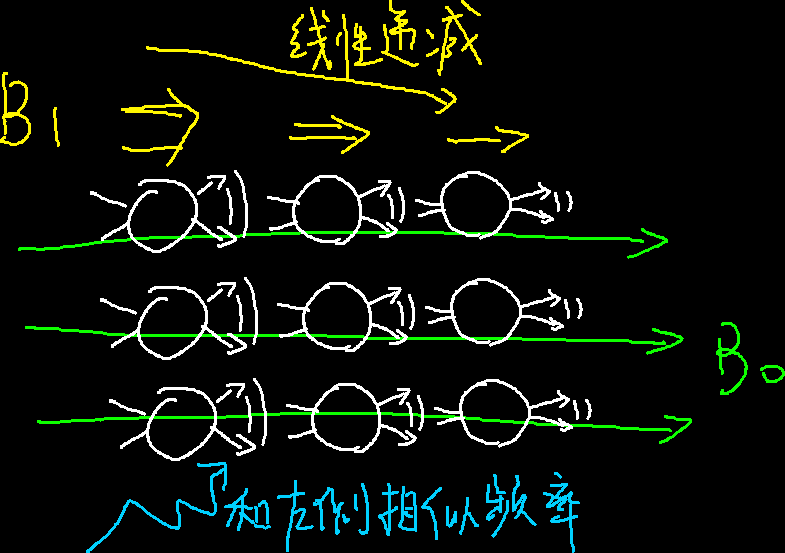
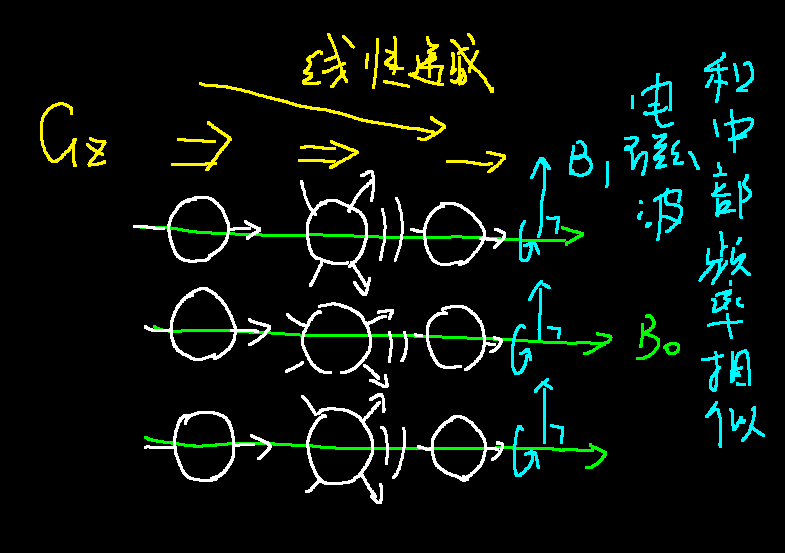
-

diff --git a/docs/natural_science/ns_3.md b/docs/natural_science/ns_3.md
@@ -10,7 +10,7 @@
 
 ![img.png](../resources/ns_3/img.png)
 
-&emsp;&emsp;如果两个音叉的固有频率相同，我们敲击一个音叉，第二个音叉也会跟着震动，即便握住第一个音叉，第二个音叉也会接着震动，我们也能听到第二个音叉发出的声音。  // 共振不是一蹴而就的，而是缓慢进行的。实际上是"荡秋千"的过程->T-1
+&emsp;&emsp;如果两个音叉的固有频率相同，我们敲击一个音叉，第二个音叉也会跟着震动，并且震动的幅度不断缓慢增加，即便握住第一个音叉，第二个音叉虽然不会继续增加，但还会接着震动，我们还是能听到第二个音叉发出的声音。
 
 &emsp;&emsp;根据这个原理，我们可以设计一个实验来检测未知音叉的固有频率。假设我们有三个未知固有频率的音叉。
 
@@ -32,75 +32,62 @@
 
 ## 三、理论模型
 
-// B0场改为均匀静态磁场1.5T/3T 超导线圈 均匀，强大 B1动态磁场 激励磁场 梯度磁场 G 缓慢变化 磁化矢量
-
-// 氢原子本身没有T1T2 G场和B0的方向相同
-
-// 梯度处处相等，梯度矢量可以叠加
-
 &emsp;&emsp;在说一台常见的核磁共振仪的具体构成之前，我们先来简单说一说核磁共振原理的概要。我们继续沿用在（一）中使用的比喻。
 
-&emsp;&emsp;在让音叉共振之前，我们至少得有音叉，在电磁波面前，我们的身体并不\*表现地像个音叉，就像一根没有绷紧的琴弦不会\*发生共振一样，那么如何制造"音叉"呢？我们需要一个非常强大（理想情况下匀强的）的磁场，我们称为均匀静态磁场B0。这种情况下，就像铁磁性的分子一样，我们身体内的一些极性分子也会发生极化，形成像小磁针一样的结构，顺着磁场排列（这和铁磁性物质的磁化相似，并不是每个原子都顺着磁场排列，而是一批分子在一起，呈现出了一定的极性）。而在医疗领域，身体内主要出现这种性质的原子是氢原子。
+&emsp;&emsp;在让音叉共振之前，我们至少得有音叉，在电磁波面前，我们的身体并不\*表现地像个音叉，就像一根没有绷紧的琴弦不会\*发生共振一样，那么如何制造"音叉"呢？我们需要一个非常强大且均匀的磁场，我们称为均匀静态磁场B0。这种情况下，就像铁磁性的分子一样，我们身体内的一些极性分子也会发生极化，很多的这样的分子在一起，在统计学上形成像小磁针一样的结构，顺着磁场排列（这和铁磁性物质的磁化相似，并不是每个原子都顺着磁场排列，而是一批分子在一起，呈现出了一定的极性），这将是我们主要研究的东西。而在医疗领域，身体内主要出现这种性质的原子是氢原子。
 
-&emsp;&emsp;让我们假设我们有一只方形的生物，身体只有27块组织，除了中心的一块是骨骼（氢含量较低）外，其他都是水分充足的组织<del>AMOUNGUS</del>。这些组织（用一个小磁铁表示）在磁场下出现规律的排列。
+&emsp;&emsp;让我们假设我们有一只方形的生物，身体只有27块组织，除了中心的一块是骨骼（氢含量较低）外，其他都是水分充足的组织<del>AMOUNGUS</del>。这些组织（用一个小磁针表示）在磁场下出现规律的排列。
 
 ![img.png](../resources/ns_3/img_4.png)
 
-&emsp;&emsp;接着，我们需要一个"声源"来让这些氢原子"震动"起来，对这，我们需要一个可控频率的电磁波源。不过，我们都知道了，能够"震动"的是氢原子，所以震动的频率我们其实是知道的，我们想要知道的，其实是氢原子的密度（因为这对不同组织数值不同）所以我们实际测量的是"震动"的"响度"。
+&emsp;&emsp;接着，我们需要一个"声源"来让这些氢原子"震动"起来，对这，我们需要一个可控频率的电磁波源，产生这个电磁波的磁场，我们称为动态磁场或激励磁场B1。不过，我们都知道了，能够"震动"的是氢原子，所以震动的频率我们其实是知道的，我们想要知道的，很重要的一部分是氢原子的密度（因为这对不同组织数值不同）所以我们实际测量的是"震动"的"响度"，在实际使用中，我们其实还需要测量这些小磁针转动的相位，但这我们之后再说。
 
-&emsp;&emsp;在音叉的实验中，我们可以通过把耳朵贴近某一个特定的音叉来增强某一个特定音叉发出的声音来得到每一个音叉的数据，但在核磁共振中，这并不太现实（音叉太多、太小），我们只能听到所有氢原子混在一起的"声音"。所以我们需要其他的方法来增强某些氢原子的"震动"，对这，我们就需要一个新的磁场称为动态磁场B1，这个磁场的磁场强度，顺着某一条直线线性减少（也就是每一米减少固定的数值）形成一个梯度。
-
-// B1改为$G_Z/G_{SELECT}$
+&emsp;&emsp;在音叉的实验中，我们可以通过把耳朵贴近某一个特定的音叉来增强某一个特定音叉发出的声音来得到每一个音叉的数据，但在核磁共振中，这并不太现实（音叉太多、太小），我们只能听到所有小磁针混在一起的"声音"。所以我们需要其他的方法来过滤处某些特定的小磁针的"震动"信息，对这，我们就需要一个新的磁场称为梯度磁场G，这个磁场的磁场强度，顺着某一条直线线性减少（也就是每一米减少固定的数值）形成一个梯度，一般来说会使用下标（xyz）来标记顺着的是哪一个方向。
 
 ![img_5.png](../resources/ns_3/img_5.png)
 
-&emsp;&emsp;这样的一个磁场有什么用呢？这要提到氢原子"震动"的另一个性质，它的频率和它被激发时，所处的场强大小有关。由于磁场可以直接叠加，顺着这个梯度磁场，氢原子"震动"的频率发生有规律的变化，还记得音叉共振的时候，当声音和音叉的固有频率和声音的频率相同时，音叉共振特别明显么？这对氢原子也生效，当激发氢原子的电磁波的频率和前面说到的这个频率相近的时候，"震动"也会特别明显，这样，通过控制梯度磁场的强度以及激发电磁波的频率，我们可以增强某个和梯度磁场中的那条直线垂直的一个面内的氢原子的信号。
+&emsp;&emsp;这样的一个磁场有什么用呢？这要提到小磁针"震动"的另一个性质：它的频率和它被激发时，所处的场强大小有关。由于磁场可以直接叠加，顺着这个梯度磁场，氢原子"震动"的频率发生有规律的变化。还记得音叉共振的时候，当声音和音叉的固有频率和声音的频率相同时，音叉共振特别明显么？这对氢原子也生效，当激发氢原子的电磁波的频率和前面说到的这个频率相近的时候，"震动"也会特别明显，这样，通过控制梯度磁场的强度以及激发电磁波的频率，我们可以选定某个和梯度磁场中的那条直线垂直的一个面内的小磁针进行"震动"。
 
-// 不要讲原子 翻倒 ms等级 B0方向不足以产生新的 T1 B0 方向长出一个新的矢量反指数，可以张到一半就给它翻起来， T2 旋转矢量消散指数形式， 一般更快
+&emsp;&emsp;这样，我们可以通过在激发时使用合适方向的层选梯度磁场，使得只有其中共振频率符合的一层小磁针会被激发，这样的选择是任意的。当然，为了简单起见，我们可以认为只有被这样选定的一层的小磁针发生了偏转。
 
-&emsp;&emsp;这样，我们可以通过在激发时使用合适方向的层选制梯度磁场，使得只有其中共振频率符合的一层小磁针会被激发，这样就可以控制地激发任意的一个平面内的小磁针。当然，为了简单起见，我们可以认为只有被这样选定的一层的小磁针发生了偏转。<del>这样的数据已经足以解算任意一块组织内的氢原子密度了。这个算法我不会，所以我不说了。这和CT中使用的方法是类似（但是CT获取的是一条直线上的数据和，这里是一个平面上的）的。不过这个方法不那么好用，核磁共振中还可以使用一种更加方便的方法，我们后面再说。</del>
+&emsp;&emsp;实际上来说，小磁针（我们可以使用一个称为磁化矢量的矢量来描述小磁针的方向）并不是真的像音叉一样去震动，而是收到了激励磁场的影响后，一边绕着静态磁场的方向旋转，一遍偏离静态磁场。
 
+![img_3.png](../resources/ns_3/img_13.png)
 
 ## 四、四个线圈
 
-&emsp;&emsp;在一台磁共振仪中，我们可以认为有4个线圈，第一个线圈，提供了永磁场，也就是我们前面说的制造"音叉"的B0磁场。在医院里看到的那些大型"纸卷"，所谓的1.5T、3T说的就是这个磁场的强度。这个磁场强度非常之强，我记得之前一个磁共振仪的安全教育视频中，一个人在这个磁场下被胸前挂着的剪刀直接吸着拉到了机器上（我找不到视频了，待验证，但是这个磁场确实很强）。一般医院中使用的机器，这个磁场都是通过超导线圈内的电流建立的的，只要维持住超导状态，这个磁场就会一直（衰减很少）存在。
+&emsp;&emsp;在一台磁共振仪中，我们可以认为有4个线圈，第一个线圈，提供了静态磁场，也就是我们前面说的制造"音叉"的B0磁场。在医院里看到的那些大型"纸卷"，所谓的1.5T、3T说的就是这个磁场的强度。这个磁场强度非常之强，我记得之前一个磁共振仪的安全教育视频中，一个人在这个磁场下被胸前挂着的剪刀直接吸着拉到了机器上。一般医院中使用的机器，这个磁场都是通过超导线圈内的电流建立的的，只要维持住超导状态，这个磁场就会一直（衰减很少）存在。
 
 &emsp;&emsp;通过精密的调试，大纸卷的中心洞里面的强磁场可以认为是匀强的。
 
 !["大纸卷"](../resources/ns_3/img_3.png)
 
-// v 改！
+&emsp;&emsp;当然，这个"纸卷"里不止有这个线圈，制造梯度磁场的梯度线圈和发出激发用的电磁波的射频线圈也在里面。虽说在梯度线圈建立的磁场中，磁场的方向都得和静态磁场相同，因此其造成的磁场强度可以看作一个标量，但是其梯度（可以理解为某个点上周围量的变化的最大的方向和变化的量多少）是一个矢量，而且处处相同，通过几组梯度线圈造成的梯度矢量的叠加（比如x、y、z三个方向的三组），可以得到任意方向的梯度。
 
-&emsp;&emsp;当然，这个"纸卷"里不止有这个线圈，制造梯度磁场的梯度线圈和发出激发用的电磁波的射频线圈也在里面。由于磁场强度是一个矢量，我们可以通过多个梯度线圈的叠加来实现任意方向的梯度磁场。
-
-// 旋转的"小磁针"
-
-&emsp;&emsp;最后，氢原子"震动"（我还是用自旋这个术语把之后再解释）产生的信号强度十分微弱，我们需要一个优秀的耳朵来听这个声音，因此还需要一个接受线圈来捕捉信号，这个线圈一般会根据需要扫描的部位进行放置，比如头线圈，身体线圈，肢体线圈等等。
+&emsp;&emsp;最后，小磁针旋转产生的信号强度十分微弱，我们需要一个优秀的"耳朵"来听这个声音，因此还需要一个接受线圈来捕捉信号，这个线圈一般会根据需要扫描的部位进行放置，比如头线圈，身体线圈，肢体线圈等等。
 
 &emsp;&emsp;这其中，永磁场在正常情况下是不能控制的，但是梯度线圈和射频线圈都是需要精密的信号设计和控制的，而这些信号的设计即使前面提到的序列设计。
 
-&emsp;&emsp;这只是一个大概的结构，一些线圈是可以双工（即既可以发射也可以接受信号）的，那么射频发射线圈和射频接受线圈是同一个线圈（不能同时使用，各有优缺）
+&emsp;&emsp;这只是一个大概的结构，一些线圈是可以双工（即既可以发射也可以接受信号）的，那么射频发射线圈和射频接受线圈是同一个线圈（不能同时使用和单工各有优缺，体现在信号强度，功率是否过大，噪声多少等方面）
 
 
 ## 五、T-1 T-2 弥散
 
-// 进动
-
-&emsp;&emsp;我们前面提到了，"震动"实际使用的术语是// ，这是因为实际上主要激发可以被检测的电磁波信号的是氢原子的极性方向（画的时候那根穿过原子的箭头，可以理解为小磁针的NS方向矢量）绕着场强方向旋转。
+&emsp;&emsp;我们前面提到了，"震动"实际是磁化矢量绕着B0进行旋转，而这变化的磁场发出了电磁波。
 
 ![img_7.png](../resources/ns_3/img_7.png)
 
-&emsp;&emsp;注意我没有考虑自旋的方向，我没学到那部分。
+&emsp;&emsp;注意我没有规定旋转的方向，这和电磁波有关。
 
-&emsp;&emsp;当氢离子密度一样的时候，决定信号强度很重要的是自选的时候和磁场方向的倾斜角度。而就像大部分的运动一样，氢离子从不自旋变得自旋需要时间，从自旋回复到不自旋也需要时间。在不同的环境（如水分子中/氨基酸中）这两个时间不同。
+&emsp;&emsp;对于两个相同的小磁针，决定信号强度很重要的是自选的时候和磁场方向的倾斜角度。通过这个信息，我们就可以得到质子的密度，但是我们还可以通过其他的方法来获取更多的信息。
 
-&emsp;&emsp;T-1和T-2像就是分别去考量了氢离子开始自旋的时间和从自旋恢复的时间。T-2像可以通过取消激励信号，然后等一段时间检测，然后和激励信号存在时进行比较得到。T-1则是再提供新的激励信号，但是给的时间非常短，不让氢离子达到最大自旋，然后检测。
+&emsp;&emsp;在施加完梯度磁场和激励磁场后，小磁针会同时发生两个过程，一个是由于偏离后的小磁针由于不再和B0方向相同，没有了其来维持磁化的属性，这各方向上的磁化向量迅速衰减消失，另一个是小磁针内部的原子中，又有另一部分在B0场的作用下出现了规律的排布，形成了一个新的磁化矢量。
 
-// tti 血液流动太快 测不了
+&emsp;&emsp;而就像大部分的运动一样，原磁化矢量消失需要时间，新的磁化矢量出现也需要时间。在不同的环境（如水分子中/氨基酸中）这两个时间不同。
 
-// 质子密度
+&emsp;&emsp;T-1和T-2像就是分别去考量了出现和消失所需的时间。在前一个磁化矢量开始衰减一段时间后进行测量再和没有衰减的时候进行对比，我们就得到了T-1像。而趁着旧的磁化矢量刚刚消失，新的磁化矢量还没有完全生成，我们就用梯度磁场和激励磁场将新的磁化矢量激发，然后检测，并和完全生成的磁化矢量得到的图像进行对比，就得到了T-2像。
 
-&emsp;&emsp;# 生物体的内部不是静态的一坨浆糊，而是有可以流动、扩散的液体的。由于就像音叉没了激励源声音后，仍然能够响一会一样，即使没有了激励源，氢原子也会继续自旋一段时间，那么，我们就可以用自旋来标记我们通过梯度和激励频率的平面内的氢原子，然后检测这些被标记的原子的扩散情况，这样可以得到体内存在一些液体屏障（比如血管、神经纤维）的方向。
+&emsp;&emsp;生物体的内部不是静态的一坨浆糊，而是有可以扩散的液体的。由于就像音叉没了激励源声音后，仍然能够响一会一样，即使没有了激励源，氢原子也会继续自旋一段时间，那么，我们就可以用自旋来标记我们通过梯度和激励频率的平面内的氢原子，然后检测这些被标记的原子的扩散情况，这样可以得到体内一些扩散能力在各个方向有区别的组织（比如神经纤维）的方向。
 
 
 ## 六、更好的信号处理：k空间
@@ -139,7 +126,7 @@ $$\overline{x} = \frac{\int^{+\infin}\_{-\infin}f(x)p(x)dx}{\int^{+\infin}\_{-\i
 
 ### 然后呢？
 
-&emsp;&emsp;那我说了这么多傅里叶变换，要干什么呢？前面我们提到，在磁共振中，我们能够通过设置梯度磁场和激发电磁波来强调某一个平面内的所有原子，但是我们依旧只能"听到"这所有的原子发出的声音混杂到一起，或者说这些原子发出声音的叠加。我们依旧需要一种方法求得每一个原子发出的声音。
+&emsp;&emsp;那我说了这么多傅里叶变换，要干什么呢？前面我们提到，在磁共振中，我们能够通过设置梯度磁场和激发电磁波来选定某一个平面内的所有小磁针，但是我们依旧只能"听到"这所有的小磁针发出的"声音"混杂到一起，或者说这些小磁针发出"声音"的叠加。我们依旧需要一种方法求得每一个小磁针发出的"声音"。
 
 &emsp;&emsp;先不管怎么做这个过程，先看看如果我们有我们的结果，我们怎么能得到我们的"声音叠加"，我们得到的信息可以放在在一个二维平面内，作为一个二维的函数$f(x, y)$，其意义是在$(x, y)$处的原子的震动信息。而要得到我们的声音叠加，我们只需要把所有点的函数值加到一起就好了。这一个过程在连续的情况下是啥呢，就是一个二重积分（可以理解为把函数值f(x, y)作为z轴用xyz做出一个三位的面，这个面在xOy平面上方的体积减去xOy平面下方的体积）。
 
@@ -167,7 +154,9 @@ $$\mathscr{F}(\omega, v) = \int^{+\infin}\_{-\infin}\int^{+\infin}\_{-\infin}f(x
 
 &emsp;&emsp;这时候我们再看对于任意$\omega, v$的加权函数$p(x, y) = e^{-\omega xi-vyi}$，首先我们要注意的是，只有函数值是复数，函数的自变量并不是复数。可以这样理解，我们使用复数，相当于把两个不同的参数放到了一个复数里，你也可以用类似的方法把3个、4ge甚至更多个参数放到一个数里，然后说这个函数的输出是3维、4维的等等，我们使用复数的原因是因为复数有很多很好的性质方便使用。由此，我们之前二维的分析中对加权函数的分析都是可行的。我们注意前面所说的$p(x, y) = e^{-\omega xi-vyi}$这条直线，其方向上的加权函数$e^{-(\omega^2+v^2)\omega xi}$对应的相位差改变$-(\omega^2+v^2)\omega xi$在其方向上是线性改变的，如果以相位差作为纵轴大概是这个样子的：
 
-![img.png](img.png)
+![img.png](../resources/ns_3/img_10.png)
+
+&emsp;&emsp;简单来说，就是调整相位，然后积分。
 
 ### k空间转换
 
@@ -175,10 +164,18 @@ $$\mathscr{F}(\omega, v) = \int^{+\infin}\_{-\infin}\int^{+\infin}\_{-\infin}f(x
 
 &emsp;&emsp;那么回到最初的问题，我们只要有方法在原始数据上做一个加权操作，我们就能够得到k空间内（$\mathscr{F}(\omega, v)$的函数值）内的数据了，然后我们就可以快乐地用傅里叶逆变换了，那么如何进行加权呢？
 
-&emsp;&emsp;我们依旧考虑之前那个只有27块组织的生物，假设我们已经通过梯度+电磁波激发的方式选定了中间的这层，我们现在将每个组织块的小磁针的转动方向和强度用一个矢量来表示，这些矢量会以一个相同的频率进行旋转，它们叠加出来的矢量也会以这个频率旋转：
+&emsp;&emsp;我们依旧考虑之前那个只有27块组织的生物，假设我们已经通过梯度+电磁波激发的方式选定了中间的这层，我们现在将每个组织块的小磁针的转动方向和强度用一个矢量（磁化矢量在xOy上的投影）来表示，这些矢量会以一个相同的频率进行旋转，它们叠加出来的矢量也会以这个频率旋转：
 
-![img_1.png](img_1.png)
+![img_1.png](../resources/ns_3/img_11.png)
 
 &emsp;&emsp;如果我们让我们的画布跟着叠加出来的这个矢量旋转，那么看起来，原来的各个小矢量也都是静止的，它们和合成出来的矢量之间，差的只是相位差。
 
-&emsp;&emsp;还记得我们是如何通过梯度和激发来选择这一层的吗，氢离子自旋的频率和磁场的强度正相关
+&emsp;&emsp;还记得我们是如何通过层选梯度磁场来选择激发这一层的吗，磁化矢量旋转的频率和磁场的强度正相关。现在我们已经让磁化矢量旋转了起来，我们依旧能通过外加一个梯度磁场来影响磁化矢量的旋转频率，就像我们可以通过调整震动的琴弦的长度来改变其声调：
+
+![img_2.png](../resources/ns_3/img_12.png)
+
+&emsp;&emsp;这里我们依旧让我们的参考系根据没有增加这个x方向的梯度磁场时，叠加后的矢量的旋转频率转动，这时候，由于梯度磁场的影响图中左侧的磁化矢量的旋转频率增加，右侧的减少，在我们看来，左侧的磁化矢量就会开始正向转动，而右侧的开始反向转动，更重要的是，转动的速度和距离成线性关系。
+
+&emsp;&emsp;这种情况下，我们通过调整施加梯度磁场的时间，可以调整各个磁化矢量的相位相较于没有施加梯度磁场时的相位差，记得之前我们说到，复函数的二维傅里叶变换，就是在用一个线性相位改变函数进行加权的结果。这是我们仅仅施加x方向上的梯度磁场的结果，如果我们同时或者先后施加y方向、z方向上的梯度磁场，我们可以让这个线性的相位改变函数符合任何我们所需的权重函数的形式，也就说，我们找到了一种进行傅里叶变换的方法。
+
+&emsp;&emsp;而且，这种方法可以非常方便地叠加。比如相同的梯度磁场，如果我们施加1ms，对应着得到$\mathscr{F}(\omega, v)$的值，接着如果我们继续施加1ms，我们就能得到$\mathscr{F}(2\omega, 2v)$的值，将这个梯度磁场反向，然后施加2ms，我们又回到了$\mathscr{F}(0, 0)$这使得我们可以方便地设计梯度磁场来"走过"足够的k空间内的数据点。最后，我们就可以用洛伦兹反变换（离散情况的）得到我们需要的数据了。
